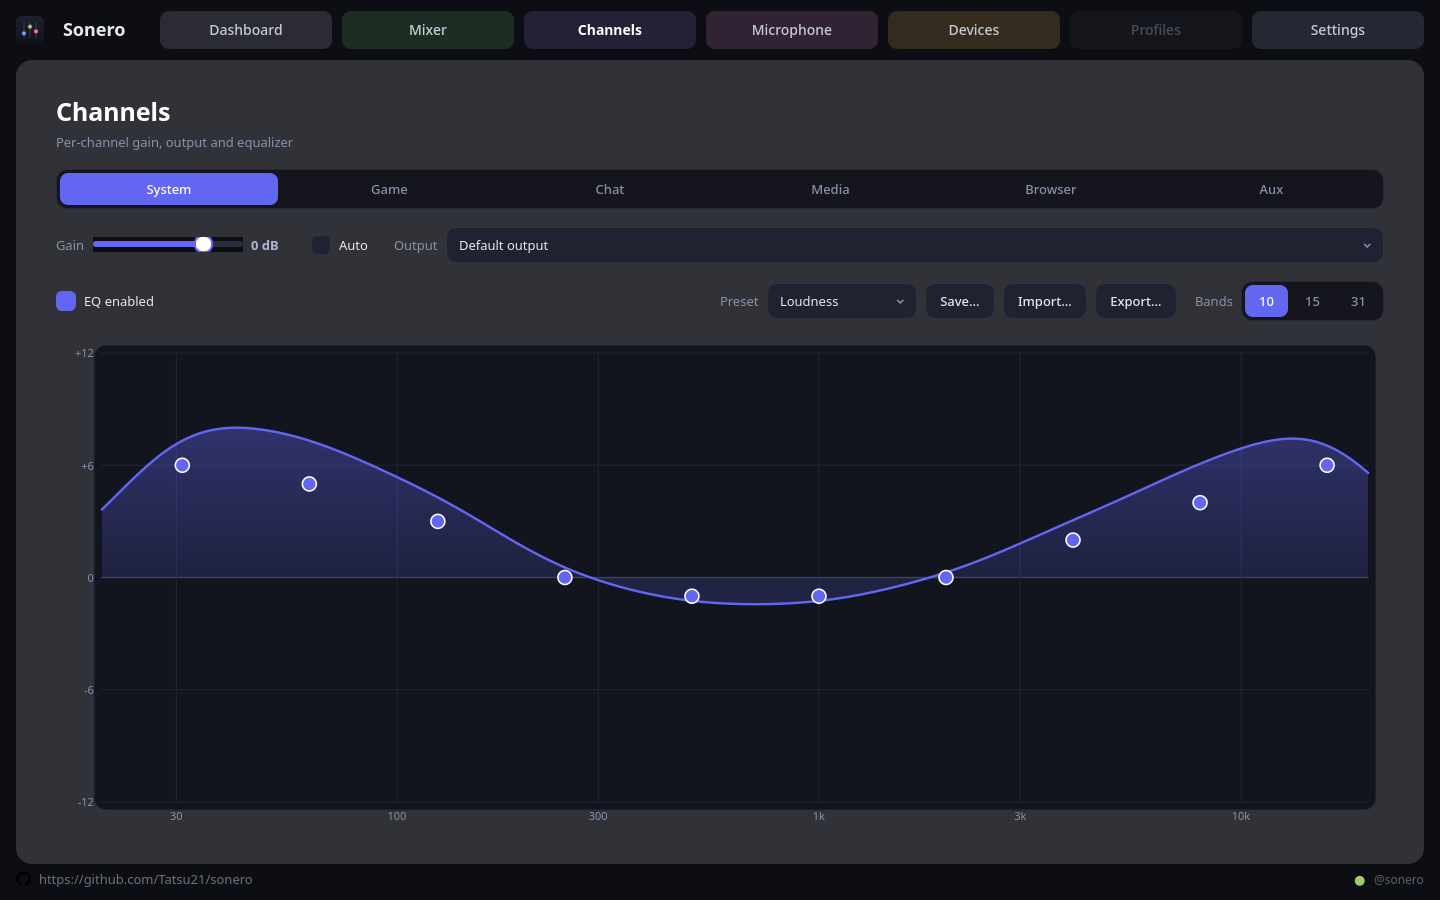
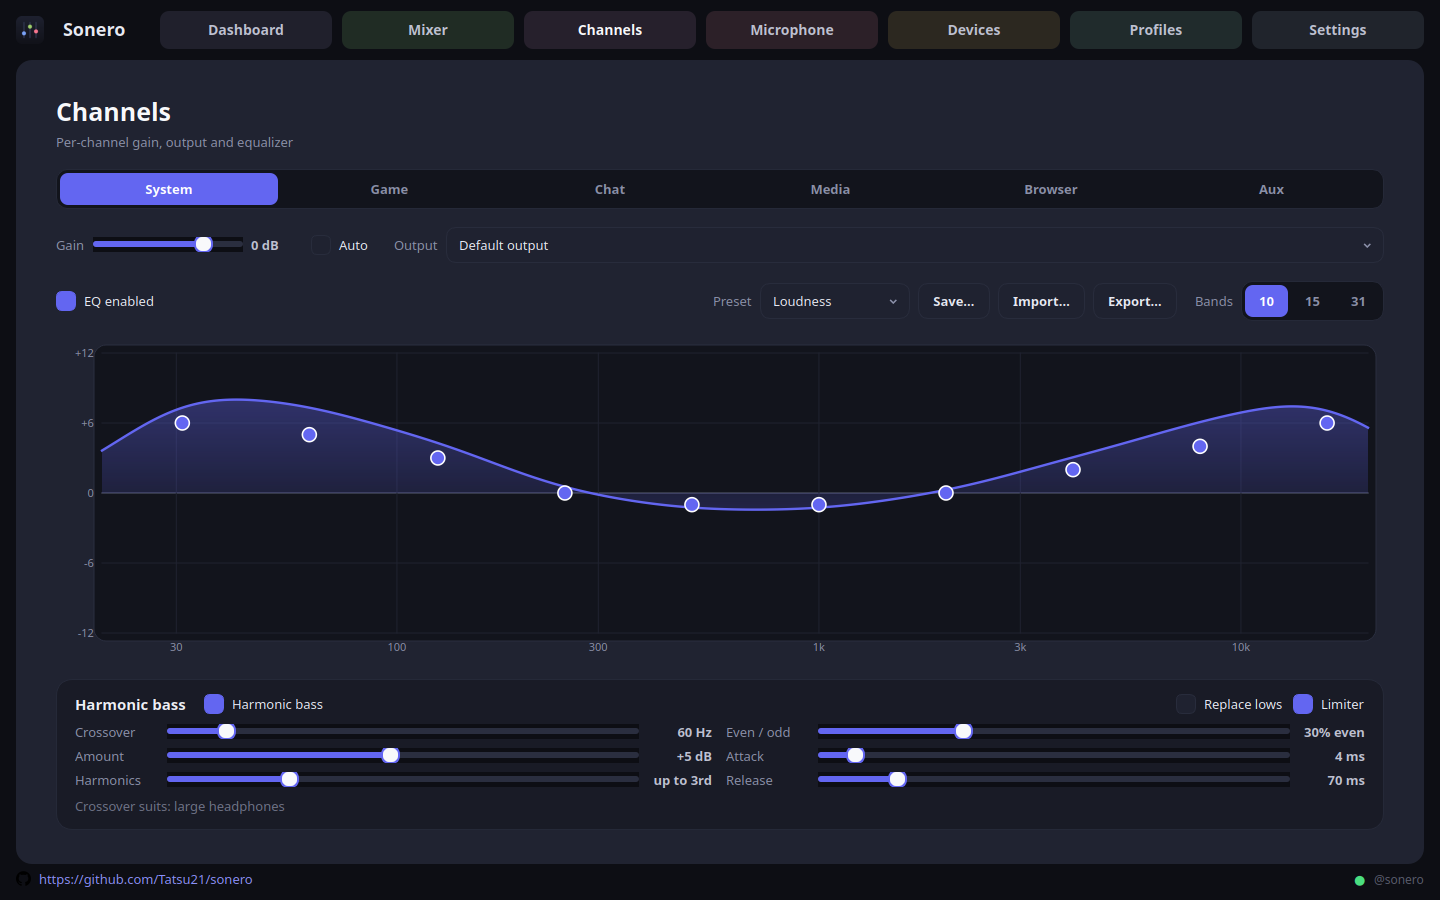
update doc

diff --git a/docs/index.html b/docs/index.html
@@ -248,6 +248,7 @@ footer .fl{margin-top:26px; display:flex; gap:20px; flex-wrap:wrap; align-items:
     <div class="links">
       <a class="hide-sm" href="#features">Features</a>
       <a class="hide-sm" href="#equalizer">Equalizer</a>
+      <a class="hide-sm" href="#themes">Themes</a>
       <a class="hide-sm" href="#microphone">Microphone</a>
       <a href="#install">Install</a>
       <a class="btn sm" href="https://github.com/Tatsu21/sonero">
@@ -314,6 +315,18 @@ footer .fl{margin-top:26px; display:flex; gap:20px; flex-wrap:wrap; align-items:
         <p>10, 15 or 31 bands with 24 built-in presets, plus save, import and export of
         your own curves.</p></div>
 
+      <div class="card"><span class="ico"><svg viewBox="0 0 24 24"><path d="M2 12c2 0 2-7 4-7s2 14 4 14 2-9 4-9 2 5 4 5 2-3 4-3"/></svg></span>
+        <h3>Harmonic bass synthesis</h3>
+        <p>A small driver cannot move enough air to reproduce 40&nbsp;Hz. Sonero
+        synthesises the <em>harmonics</em> of the bass in the range the driver does
+        reproduce, and your hearing supplies the fundamental that is not there.</p></div>
+
+      <div class="card"><span class="ico"><svg viewBox="0 0 24 24"><path d="M12 3a9 9 0 1 0 0 18c1.7 0 2-1.3 1.2-2.1-.8-.9-.5-2.2.8-2.2H17a4 4 0 0 0 4-4c0-5-4-9.7-9-9.7z"/><circle cx="7.5" cy="10.5" r="1.1"/><circle cx="12" cy="7.5" r="1.1"/><circle cx="16.5" cy="10.5" r="1.1"/></svg></span>
+        <h3>Themes you can write</h3>
+        <p>Thirteen colours and a font in a JSON file; the shades in between are derived
+        from them. The built-in theme is compiled in and only ever applied <em>over</em>,
+        so nothing you write can leave the app unusable.</p></div>
+
       <div class="card"><span class="ico"><svg viewBox="0 0 24 24"><path d="M12 3v18M7 7v10M17 7v10M3 10v4M21 10v4"/></svg></span>
         <h3>Automatic gain</h3>
         <p>On request, it holds the highest gain — up to +6 dB — that keeps the channel
@@ -325,9 +338,11 @@ footer .fl{margin-top:26px; display:flex; gap:20px; flex-wrap:wrap; align-items:
         and two channels can play to two different devices at once.</p></div>
 
       <div class="card"><span class="ico"><svg viewBox="0 0 24 24"><rect x="2" y="7" width="16" height="10" rx="3"/><path d="M18 11h3v2h-3z"/><path d="M6 11v2M10 10v4"/></svg></span>
-        <h3>Battery where it exists</h3>
-        <p>Bluetooth headsets through BlueZ, and the SteelSeries Arctis Nova Pro Wireless
-        straight from its base station over USB HID — both shown in the tray.</p></div>
+        <h3>Battery, without a product list</h3>
+        <p>Read from the kernel&rsquo;s own <code>power_supply</code> class, which covers
+        any device whose driver reports a level, plus BlueZ for Bluetooth. A vendor
+        protocol is one more source behind the same interface, not the feature
+        itself — shown in the tray either way.</p></div>
 
       <div class="card"><span class="ico"><svg viewBox="0 0 24 24"><path d="M15 10l6-4v12l-6-4z"/><rect x="2" y="6" width="13" height="12" rx="3"/></svg></span>
         <h3>Streaming mix for OBS</h3>
@@ -358,14 +373,43 @@ footer .fl{margin-top:26px; display:flex; gap:20px; flex-wrap:wrap; align-items:
         <h2>It runs in software, so it works with any headset</h2>
         <p class="lead" style="margin-bottom:20px">Every channel is a cascade of peaking
           biquads — nothing has to be blessed by a hardware vendor. Drag the curve or the
-          per-band sliders; 10, 15 or 31 bands, with presets you can save and share.</p>
-        <p style="color:var(--dim); margin:0; font-size:15px">Gain staging is deliberate:
-          volume × channel gain × EQ headroom × a fixed filter reserve, so a boosted band
-          cannot clip on the way to the device.</p>
+          per-band sliders; 10, 15 or 31 bands, with presets you can save and share.
+          The harmonic bass stage sits right after it, on the same channel.</p>
+        <p style="color:var(--dim); margin:0; font-size:15px">The order is not a
+          preference: the equalizer feeds the bass stage so its crossover sees the signal
+          as it will be heard, a brick-wall limiter follows both because it is the only
+          thing between them and a driver, and the fader comes last so pulling a channel
+          down never changes what the limiter was protecting against. Ahead of the filters
+          the signal is attenuated by exactly what the curve boosts, so a raised band
+          cannot clip on the way out.</p>
       </div>
       <figure>
         <img class="frame" src="images/channels.png" width="1440" height="900"
              alt="The per-channel equalizer: a draggable response curve above per-band sliders">
+      </figure>
+    </div>
+  </div>
+</section>
+
+<section id="themes">
+  <div class="wrap">
+    <div class="split">
+      <div>
+        <p class="eyebrow">Themes</p>
+        <h2>The interface is a file you can edit</h2>
+        <p class="lead" style="margin-bottom:20px">Thirteen colours and a font in a JSON
+          file. The shades in between — a hover against its surface, a slider groove, the
+          tint behind a soloed channel — are derived from those thirteen, so a coherent
+          interface costs thirteen decisions rather than thirty-six.</p>
+        <p style="color:var(--dim); margin:0; font-size:15px">The built-in theme is
+          compiled into the binary and is only ever applied <em>over</em>, never replaced,
+          so a theme that is wrong or written for an older version can change colours and
+          nothing else. Import, export and switch from the Profiles page; an optional
+          style-sheet block covers what colours cannot say.</p>
+      </div>
+      <figure>
+        <img class="frame" src="images/profiles.png" width="1440" height="900"
+             alt="The Profiles page: a theme picker with import and export">
       </figure>
     </div>
   </div>
@@ -466,11 +510,16 @@ cmake --build build --parallel
       left looking clickable. Nothing here pretends to work.</p>
     <div class="note">
       <ul>
-        <li><strong>Profiles</strong> — saving whole configurations as named profiles is
-          not implemented.</li>
-        <li><strong>Microphone controls</strong> — the source is live and apps can record
-          from it, but gain, mute, level, noise suppression, gate and monitoring are inert.
-          The DSP behind them is not wired.</li>
+        <li><strong>Profiles</strong> — the page exists and holds themes, but saving a
+          whole audio configuration as a named profile is not implemented.</li>
+        <li><strong>Microphone gate and monitoring</strong> — the source is live, and
+          input gain, mute, the voice equalizer and noise suppression all reach it. The
+          noise gate and &ldquo;hear myself&rdquo; are laid out but not wired; the DSP for
+          them exists and is tested, and has no node to run in yet.</li>
+        <li><strong>Noise suppression needs RNNoise at build time.</strong> The released
+          <code>.deb</code> and AppImage carry it. A build from source finds it only on
+          Arch, or after <code>packaging/build-rnnoise.sh</code> — without it that one
+          stage reports itself unavailable and says so in the app.</li>
         <li><strong>SteelSeries hardware EQ</strong> — the dock accepts the HID writes and
           nothing audible changes. Unsolved, so the card is disabled; the per-channel
           equalizer runs in software and works with any headset.</li>

diff --git a/README.md b/README.md
@@ -40,23 +40,36 @@ transmission format — sample rate and bit depth for wired devices, codec for
 Bluetooth — and battery wherever the hardware reports one. Two channels can even play
 to two different devices at once.
 
+The processing is Sonero's own, which is why it is not tied to anyone's hardware: each
+channel runs an equalizer, a harmonic bass stage and a limiter inside a node this
+application owns. And the interface is yours to repaint — a theme is a small JSON file,
+and the built-in one is compiled in, so nothing you write can leave the app unusable.
+
 |  | Feature |
 |---|---|
 | 🎚 | **Six output channels** — Master (System), Game, Chat, Media, Browser, Aux. Volume, mute, solo, balance and live VU meters per channel. |
 | 🧲 | **Drag-free app routing** — every playing app shows up as a chip; move it to a channel and it stays there across restarts. |
 | 🎛 | **Equalizer per channel** in 10, 15 or 31 bands, with 24 built-in presets (music, gaming, voice, movie) plus save / import / export of your own. |
+| 🧠 | **Harmonic bass synthesis, per channel** — a small driver cannot move enough air to reproduce 40 Hz, and boosting 40 Hz only spends excursion distorting everything else. Sonero synthesises the *harmonics* of the bass instead, in the range the driver does reproduce, and your hearing supplies the fundamental that is not there. Crossover, level, how many orders and the even/odd balance are all yours, with an option to replace the lows rather than add to them. |
 | 🔊 | **Per-channel gain, set automatically on request** — it holds the highest gain (up to +6 dB) that keeps the channel's real output clear of full scale: quiet material climbs, a peak that overshoots is taken back by exactly what it overshot. Slow up, immediate down, so nothing breathes. |
 | 🎥 | **Streaming mix for OBS** — a `Sonero Stream` input source with an independent send level per channel, so your viewers hear a different balance than you do. |
 | 🎤 | **A microphone chain, not just a level** — the `Sonero Microphone` source your apps select runs a full voice chain: high-pass, learned noise suppression (RNNoise), gate, de-esser, 10-band voice equalizer, compressor and a brick-wall limiter, with presets for podcasting, streaming and meetings. Every application recording from Sonero hears the processed voice. |
 | 🎧 | **Any output device** — USB, Bluetooth, HDMI, S/PDIF and analog, each detected and badged automatically, each with its own output selection per channel. |
 | 💿 | **Per-device transmission format** — sample rate and bit depth up to 24-bit / 96 kHz, written as a per-device WirePlumber drop-in, so changing one device never disturbs the others. |
 | 📶 | **Bluetooth done properly** — automatic switch to the best A2DP codec the headset offers, ranked from LDAC (untested — see below) and aptX down to SBC, plus battery level through BlueZ. |
-| 🔋 | **SteelSeries headsets** — battery read straight from the base station over USB HID (Arctis Nova Pro Wireless and relatives), on top of everything above. |
+| 🔋 | **Battery, without a list of blessed products** — read from the kernel's own `power_supply` class, which covers any device whose driver reports a level, plus BlueZ for Bluetooth. A vendor protocol is one more source behind the same interface, not the feature itself; SteelSeries base stations use that path because they report battery no other way. |
+| 🎨 | **Themes you can write** — thirteen colours and a font in a JSON file, with the shades in between derived from them, so a coherent interface costs thirteen decisions rather than thirty-six. An optional style-sheet block covers what colours cannot say. The built-in theme is compiled into the binary and is only ever applied *over*, so there is always a way back. Import, export and switch from the Profiles page. |
 | 💾 | **Everything persists** — first launch gives you sane defaults; every change you make is remembered for the next session. |
 | 🖥 | **A real desktop app** — tray icon, desktop notifications, autostart at login and background operation so your channels stay alive when the window is closed. The tray menu shows the battery of every connected device and opens a compact volume window for the channels. |
 
 <div align="center">
 <img src="docs/images/microphone.png" alt="The microphone page: input levels, the voice equalizer and noise suppression" width="860">
+</div>
+
+<div align="center">
+<img src="docs/images/profiles.png" alt="The Profiles page: the theme picker, with import and export" width="860">
+<br><sub>Themes are files. Import one, pick it, and the whole interface follows — including
+the parts that are painted rather than styled, like the equalizer curve and the meters.</sub>
 </div>
 
 <details>
@@ -222,7 +235,7 @@ freezing a copy of them. On Arch the `PKGBUILD` above does exactly this for you.
 | **PipeWire** | 0.3 | Plus WirePlumber as the session manager. Already running on every current desktop. |
 | **Qt** | 6.2 | Widgets, D-Bus and Network modules. |
 | **RNNoise** | 0.2 | Optional, and only for the microphone's noise suppression. Packaged on Arch; built by `packaging/build-rnnoise.sh` everywhere else. Without it that one stage reports itself unavailable. |
-| **CPU** | x86-64 | Nothing exotic; the DSP is a handful of biquads per channel. |
+| **CPU** | x86-64 | Nothing exotic. Per channel: 31 biquads a side, plus the bass stage's eight and a limiter — a few microseconds a block. |
 
 PipeWire is a *recommended*, not a hard, dependency of the `.deb` — installing Sonero
 will never drag in an audio server you did not ask for.
@@ -236,15 +249,25 @@ depend on what the hardware exposes.
 
 | Device class | Routing | Format control | Battery |
 |---|---|---|---|
-| USB headsets, DACs and interfaces | ✅ | rate + bit depth | — |
+| USB headsets, DACs and interfaces | ✅ | rate + bit depth | ✅ wherever the kernel reports one |
 | Bluetooth headphones and speakers | ✅ | codec selection | ✅ via BlueZ |
-| SteelSeries wireless (Arctis Nova Pro & relatives) | ✅ | rate + bit depth | ✅ direct over USB HID |
+| SteelSeries wireless (Arctis Nova Pro & relatives) | ✅ | rate + bit depth | ✅ vendor HID, since it reports no other way |
 | HDMI / DisplayPort outputs | ✅ | rate + bit depth | — |
 | S/PDIF and optical | ✅ | rate + bit depth | — |
 | Onboard analog | ✅ | rate + bit depth | — |
 
 No device is privileged over another, and each channel picks its own output — send
 Chat to your headset while Media keeps playing on the speakers.
+
+<div align="center">
+<img src="docs/images/devices.png" alt="The Devices page: every detected output with its type badge, format and battery" width="860">
+</div>
+
+Battery is read from `/sys/class/power_supply`, which is where the kernel publishes a
+charge level for any HID device whose driver knows one. Nothing vendor-specific is
+involved and no product list exists. Devices behind a receiver are handled too: for
+those the USB descriptors describe the dongle rather than the headset, so the power
+supply's own model name is matched as well.
 
 Two honest caveats about format control: a rate is only honoured up to what the
 hardware advertises (ask a 48 kHz headset for 96 kHz and ALSA clamps it back), and
@@ -273,9 +296,11 @@ aptX HD and LDAC appear only when the matching encoder libraries were compiled i
 
 ### Adding your own headset — without reading the code
 
-Battery level goes over USB HID, and that protocol differs per model, so only the Arctis
-Nova Pro Wireless is implemented. Everything else still plays audio normally — it is
-only the percentage that is model-specific.
+Most wireless headsets need nothing: if the kernel reports a charge level for yours, the
+generic path above already finds it. This section is for the ones that report battery
+*only* over a vendor HID protocol of their own, which differs per model — the Arctis
+Nova Pro Wireless is the implemented example. Everything else still plays audio normally
+either way; it is only the percentage that can be model-specific.
 
 If you want yours supported and you do not write C++, you do not have to.
 [`hid/SKILL.md`](hid/SKILL.md) is a written procedure meant to be handed to an **AI
@@ -443,8 +468,9 @@ Both are reversible by deleting a single file. Details in [docs/INSTALL.md](docs
 ## Where your settings live
 
 ```
-~/.config/Sonero/Sonero/settings.json   mixer, EQ, routing, preferences
+~/.config/Sonero/Sonero/settings.json   mixer, EQ, harmonic bass, routing, preferences
 ~/.config/Sonero/Sonero/presets/        saved equalizer presets
+~/.config/Sonero/Sonero/themes/         imported themes (*.json)
 ```
 
 The update check keeps its switch and the time of the last check in the same file,
@@ -461,28 +487,45 @@ Sonero keeps the audio engine free of Qt, so it can be tested headlessly and reu
 ```
 sonero/
 ├── app/       Composition root: main, Application, single-instance guard, autostart
-├── ui/        Qt6 Widgets — pages (Mixer, Channels, Microphone, Devices, Settings)
-│   │           plus the tray's compact volume window
+├── ui/        Qt6 Widgets — pages (Mixer, Channels, Microphone, Devices,
+│   │           Profiles, Settings), the theme engine, and the tray's
+│   │           compact volume window
 │   └── widgets/   ChannelStrip, AppChip, EqCurve, VuMeter
-├── audio/     Backend interfaces + PipeWireManager, Mixer, device formats
-├── dsp/       Equalizer (biquad cascade) and AutoGain
-├── hid/       SteelSeries base-station protocol over hidraw
+├── audio/     Backend interfaces + PipeWireManager, the per-channel node pairs,
+│              Mixer, device formats
+├── dsp/       The channel chain: equalizer, harmonic bass, limiter, AutoGain
+├── hid/       Battery sources — the kernel's power_supply class, and a vendor
+│              HID protocol behind the same interface
 ├── core/      Logging, version string, a std::format stand-in for older toolchains
 ├── config/    Debounced JSON settings store
+├── themes/    Example themes and the format they are written in
 ├── packaging/ .deb, AppImage, icons, udev rules, CI helper scripts
 ├── docs/      Install guide and notes
 └── tests/     QtTest suites
 ```
 
-**How the audio path works.** Every channel is a `module-filter-chain` instance whose
-capture side is a virtual `Audio/Sink` and whose graph is a cascade of 31 peaking
-biquads — the equalizer. A `module-loopback` then carries that chain's output to the
-device you picked, and a second loopback taps the same sink at its own send level to
-feed the `Sonero Stream` source that OBS records. Applications move between channels
-by rewriting their `target.object` metadata, which PipeWire applies without
-interrupting playback. Gain staging is deliberate: volume × channel gain × EQ
-headroom × a fixed filter reserve, so a boosted band cannot clip on the way to the
-device.
+**How the audio path works.** Every output channel is a pair of native PipeWire nodes
+that Sonero owns: an `Audio/Sink` applications play into, and an output stream feeding
+the device you picked. Between them runs one chain —
+
+```
+trim → 31-band equalizer → harmonic bass → brick-wall limiter → fader
+```
+
+— which is why the bass stage can exist at all. It synthesises frequencies that were
+not in the input, and no arrangement of the daemon's builtin biquads can do that, since
+a filter graph is linear by construction. A `module-loopback` taps the same sink at its
+own send level to feed the `Sonero Stream` source OBS records. Applications move between
+channels by rewriting their `target.object` metadata, which PipeWire applies without
+interrupting playback.
+
+The order in that chain is not a preference. The equalizer comes first because the bass
+stage's crossover should see the signal as it will be heard. The limiter follows the
+bass because it is the only thing between what those two produce and a driver. The fader
+is last, so pulling a channel down never changes what the limiter was protecting
+against — a channel at 10% is the same sound, quieter, rather than a differently
+limited one. Ahead of the filters the signal is attenuated by exactly what the curve
+boosts, so a raised band cannot clip on the way out.
 
 <div align="center">
 <img src="docs/images/channels.png" alt="Per-channel equalizer" width="820">
